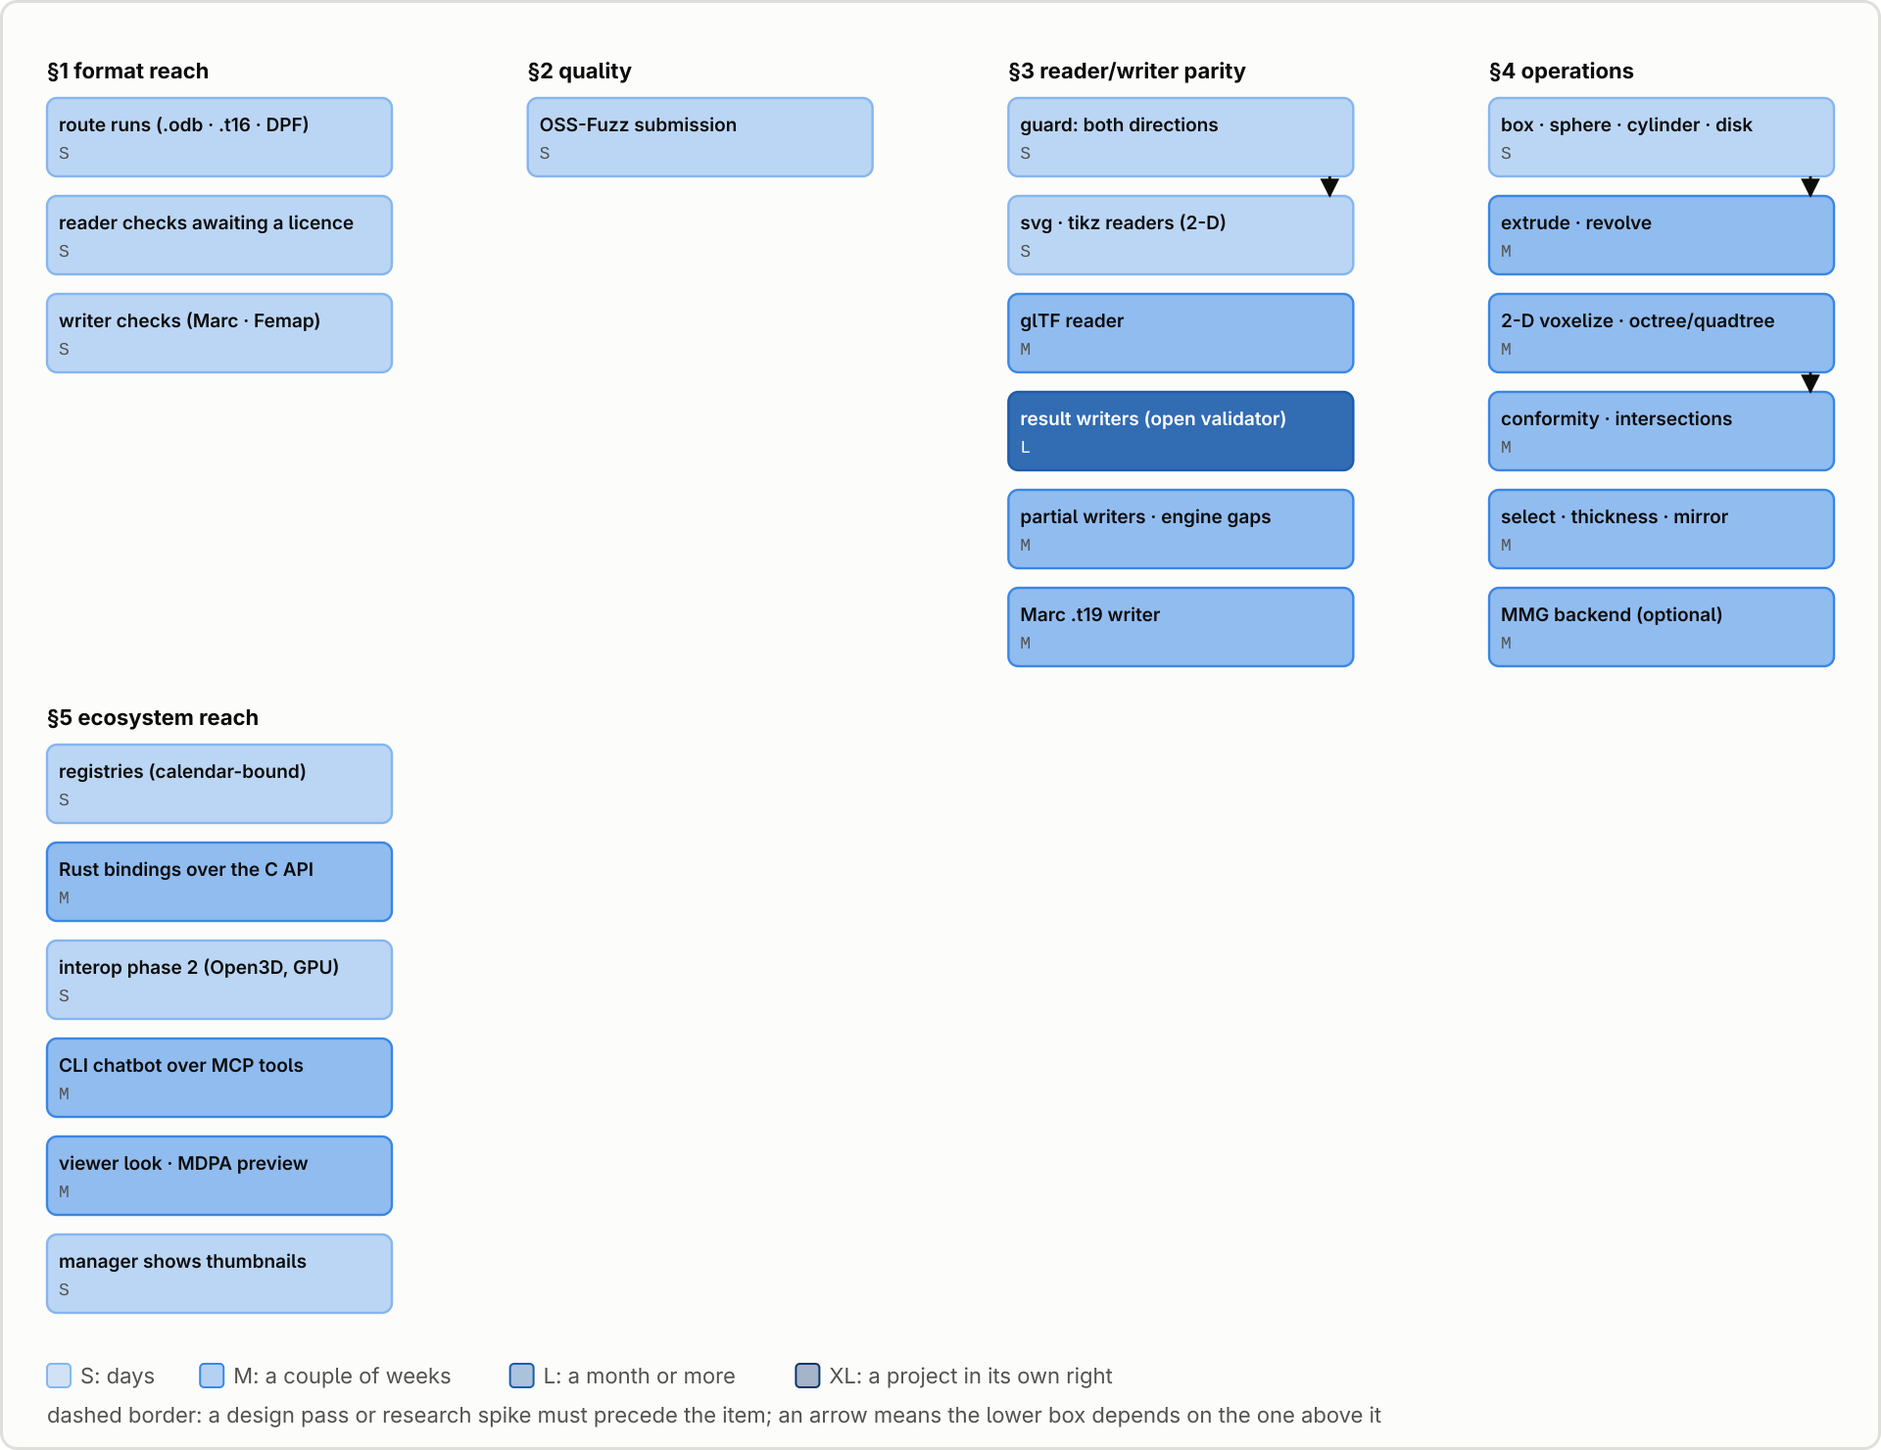
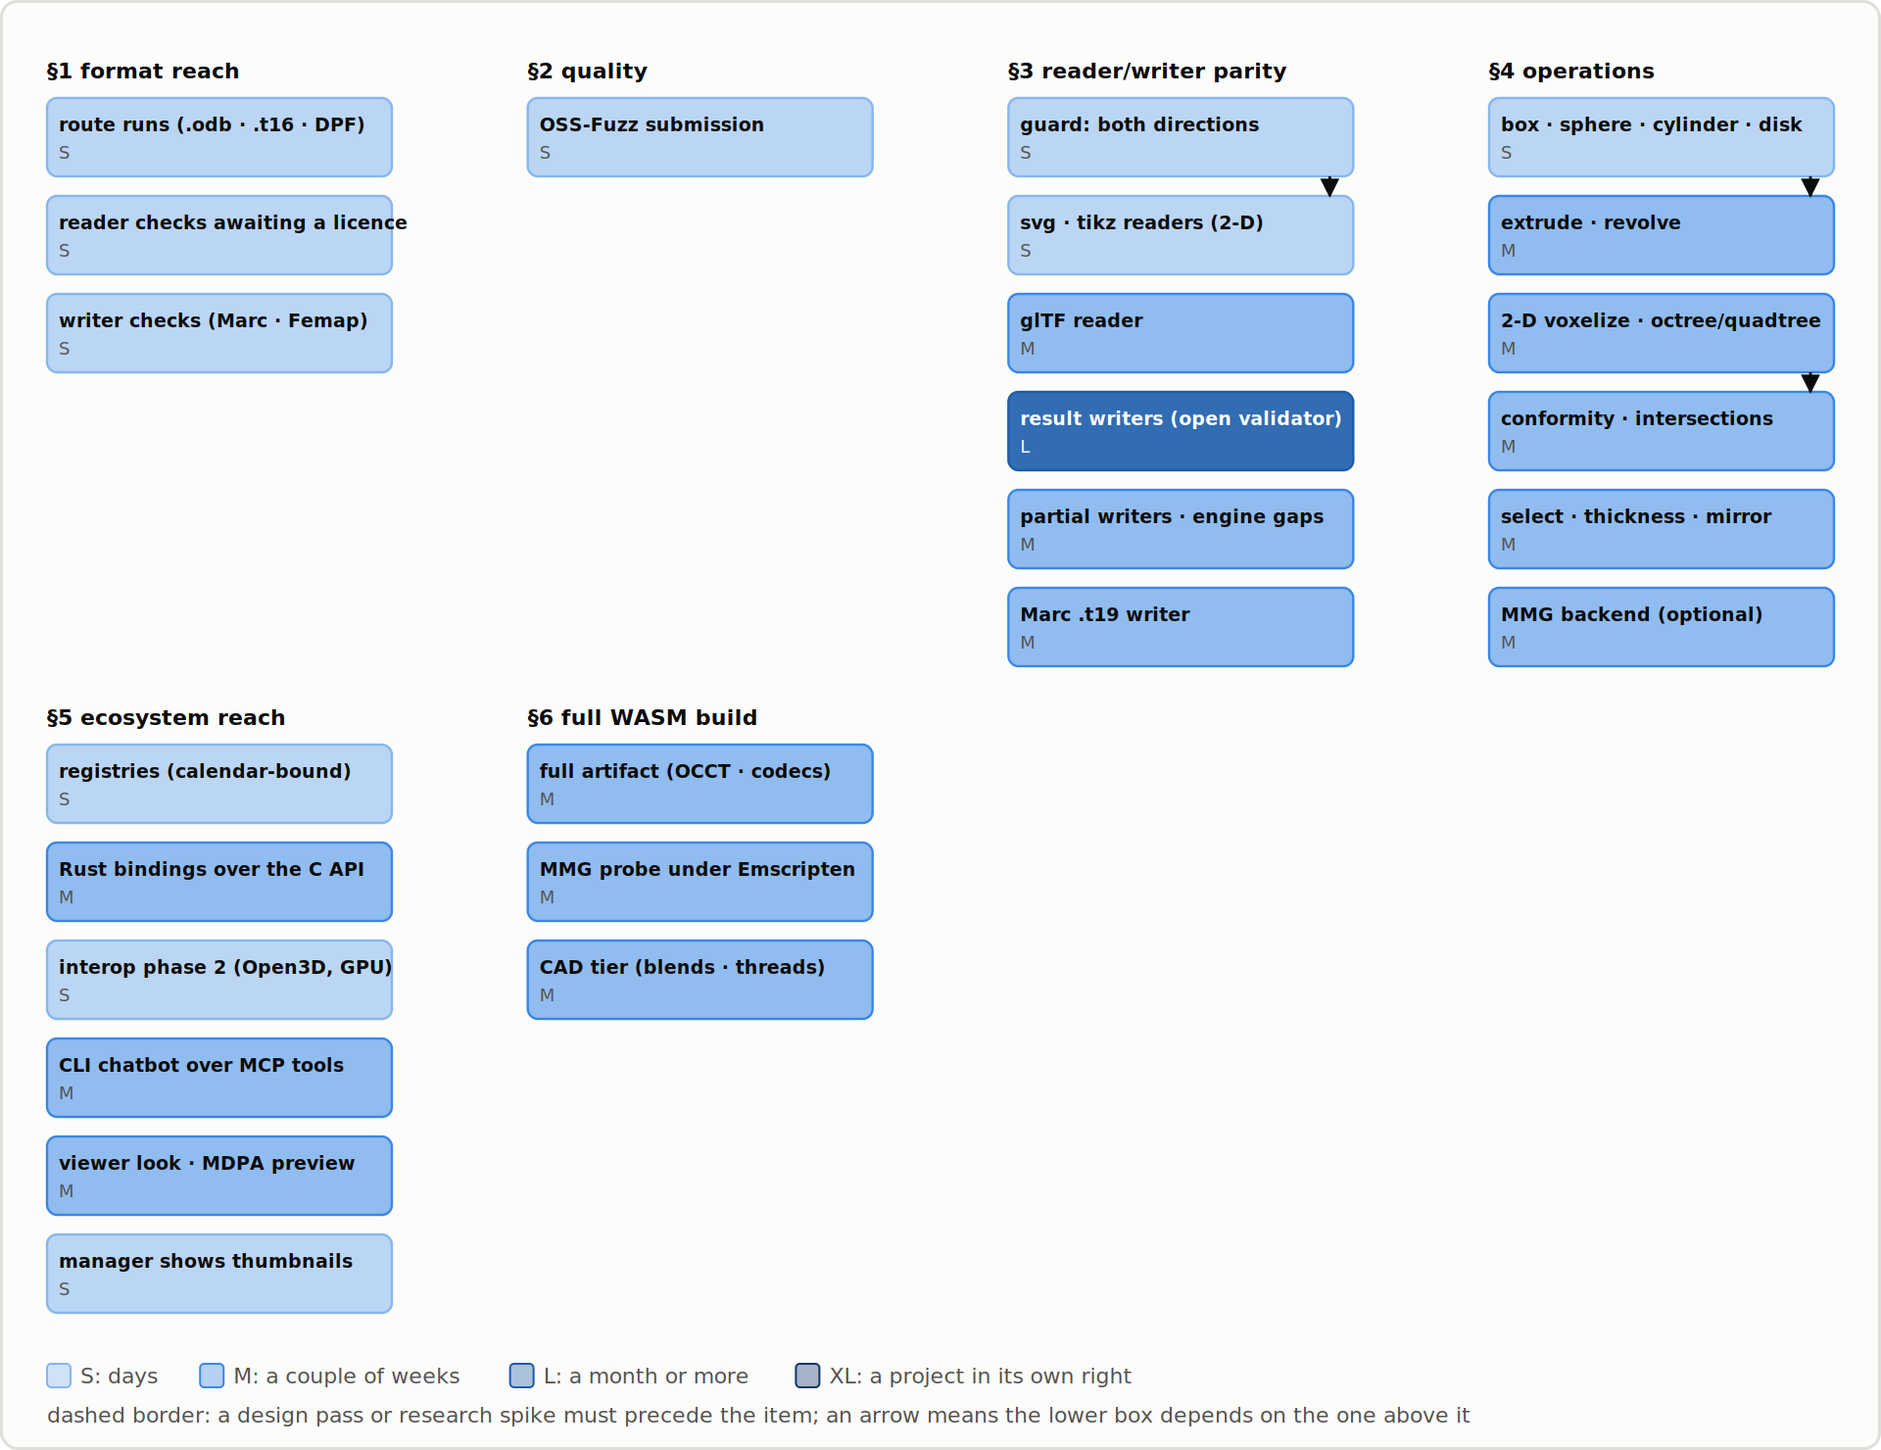
Add full WebAssembly build section to roadmap and update diagrams

diff --git a/doc/diagrams/figures/flows.py b/doc/diagrams/figures/flows.py
@@ -1064,6 +1064,15 @@ def roadmap_map():
             ],
             [],
         ),
+        (
+            "§6 full WASM build",
+            [
+                ("full artifact (OCCT · codecs)", "M"),
+                ("MMG probe under Emscripten", "M"),
+                ("CAD tier (blends · threads)", "M"),
+            ],
+            [],
+        ),
     ]
     per_row = 4
     col_w = 176

diff --git a/doc/roadmap.md b/doc/roadmap.md
@@ -99,7 +99,7 @@ What changed since parity last had a section. The reader/writer triage of Septem
 - **Both directions, both engines.** A format reads and writes in the C++ core and in its Python twin, so it reaches every surface: C, Fortran, Julia, R, WASM, both CLIs and the MCP server's format capabilities.
 - **What one side keeps, the other keeps.** `read(write(m))` equals `m` within the limits the format itself imposes (single precision, a cell type it has no slot for, a concept it cannot express). A loss that is a fact of the format is stated on its page and in the [conformance](./conformance.md) notes; a loss that is only an unwritten feature is a gap, and belongs below.
 - **The one exception: pure 2-D drawings.** `svg` and `tikz` draw a mesh rather than store it. Their readers parse only the structure meshio++'s own writers emit, return the geometry as planar (`z = 0`), and warn once per read that depth, and whatever else the drawing could not hold, is lost. Anything else in the file — another tool's drawing, or a hand edit — is a `ReadError` naming the construct, never a guess.
-- **Exempt:** `ansys_rst_cyclic`, which is not a file but the full rotor a cyclic `.rst` expands to; its write side is `ansys_rst`'s cyclic option (3.2.5). And `step` and `iges` outside a build with the optional OpenCASCADE backend: reading a CAD model means a CAD kernel, which stays bring-your-own ([skin to CAD](./cad_fit.md), [STEP](./formats/step.md#reading)).
+- **Exempt:** `ansys_rst_cyclic`, which is not a file but the full rotor a cyclic `.rst` expands to; its write side is `ansys_rst`'s cyclic option (3.2.5). And `step` and `iges` outside a build with the optional OpenCASCADE backend: reading a CAD model means a CAD kernel, which stays bring-your-own natively ([skin to CAD](./cad_fit.md), [STEP](./formats/step.md#reading)); on WASM the lean build is the exempt one, and [§6](#_6-the-full-webassembly-build) queues the full build that carries the kernel.
 
 **Landing an item.** Each item names only what is particular to it. All of them:
 
@@ -254,22 +254,41 @@ What changed since parity last had a section. The reader/writer triage of Septem
 
 ---
 
+## 6. The full WebAssembly build
+
+*Admission: work that gives the browser surface the optional libraries it cannot link today, and the CAD work those libraries unlock. The lean build stays the default: small, MIT and dependency-light, for every consumer that does not need a CAD kernel.*
+
+The npm package ships one build today, in two parallel flavours — `meshioplusplus_wasm` (sequential) and `meshioplusplus_wasm_mt` (threaded) — with every library that already has an Emscripten port compiled in (zlib, HDF5, netCDF, cgnslib, the vendored gidpost) and everything else compiled out with its reason in the [non-goals](#non-goals-and-decisions-taken). The split: a **lean** build, exactly what ships today, and a **full** build that turns on every library the Emscripten toolchain can cross-compile, even where that changes the artifact's licence.
+
+- **6.1 The lean build stays the default.** Nothing about it changes: small, MIT, the build every current consumer loads. What it compiles out keeps reporting by name, as `hasCgnslib()` and the flag-naming errors do today. **S**
+- **6.2 The full build.** A sibling artifact linking everything portable, stating the licence consequences of doing so. Its JS API is identical to the lean one; `availableFormats()` reports the larger set and a `hasOcct()` reports the kernel beside `hasCgnslib()`. The package keeps one name and one loader: the full artifacts ship beside the lean ones (`meshioplusplus_wasm_full`, plus its threaded flavour) and `loadMeshioPlusPlus` lazy-imports them only when asked, so a lean consumer never fetches the bytes. **M for the wiring, L with the OCCT port**
+  - **6.2.1 OpenCASCADE.** Reading STEP or IGES and writing fitted analytic faces mean a CAD kernel, so the full build is where [§3](#_3-reader-and-writer-parity)'s bring-your-own exemption ends on this surface. **Verify first:** no Emscripten port of a current OCCT release exists (opencascade.js tracks an old one), so the first probe is a wasm32 configure of OCCT 7.6 — the floor the native backend already sets — under `build/build-wasm-deps.sh`'s pinned-source pattern, statically linked, with the artifact's size measured and recorded before anything else is promised. If it configures: STEP and IGES read in the browser, [`fit_cad`](./fit_cad.md) gains the one surface that lacked it, and the `brep` and [CAD JSON](./formats/cad_json.md) side channels reach JS. OCCT is LGPL-2.1 with the OCCT exception, so the full artifact is **not** plain MIT: the npm page, the package README and [WASM](./wasm.md) state the mixed licence, as [STEP](./formats/step.md) states the kernel's implications natively. **L**
+  - **6.2.2 The codecs.** zstd, lz4 and bzip2 (the native `MESHIOPLUSPLUS_WITH_BZIP2`) are pure C, and the non-goal's "no Emscripten port" claims rather than measures impossibility. **Verify first:** a wasm32 build of each, with the cost weighed against an optional VTK block codec. If they build, the full artifact gains zstd/lz4 compression and bzip2 libMesh reads. Probe: a zstd-compressed `vtu` the full artifact writes reads back in the same artifact and in vtk.js. **S–M**
+  - **6.2.3 MMG.** The old non-goal recorded LGPL-3.0 and "never probed under Emscripten"; the full build is where that probe happens. **Verify first:** MMG is C with POSIX expectations (its signal handlers, no MPI path needed), so a wasm32 configure of 5.8 follows the same deps-script pattern; if it links, `adapt`, `discretize_levelset`, `mesh_domain` and `move` (4.3.1–4.3.4) reach the browser and the licence statement of 6.2.1 covers an LGPL component. Its operations throw by name where it is absent, as everywhere else. **M**
+  - **6.2.4 What stays out, each with its reason.** KaHIP (no Emscripten port, and a partitioner would bloat every consumer's bundle), ADIOS2 (`vtx`, a wasm build of it no one has made), TecIO (`szplt`, redistribution terms), the Kokkos backend (CMake refuses it under Emscripten) and memory mapping (nothing to map inside MEMFS). Each stays compiled out and reports by name; the non-goal block keeps the line for each. Probe: `availableFormats()` and the capability reporters name exactly this set on both artifacts. **S**
+  - **6.2.5 Surfaces and probes.** `build/configure-wasm.sh` gains a `--full` pass beside the seq/mt pair (artifacts `meshioplusplus_wasm_full` and its threaded flavour), `build/build-wasm-deps.sh` the OCCT, codec and MMG source builds with pins, the package `files` list and the loader (a full flavour of the same `auto`/`mt`/`seq` choice), `tests/wasm/smoke.mjs` a `MESHIOPLUSPLUS_WASM_VARIANT=full` leg, and `.github/workflows/wasm.yml` builds and smoke-tests it. Probe: the full artifact passes the whole smoke suite; a STEP file reads as its triangulation plus `mesh.info.brep`; `fit_cad` writes a solid from a segmented skin; a zstd `vtu` round-trips — each in the browser and in Node. **M**
+- **6.3 The CAD tier.** The recognisers the non-goal block deferred, moved here: each is worth its weight when a consumer needs the feature as an editable face rather than a freeform one, and the full build is that consumer. [`fit_cad`](./fit_cad.md) recognises planes, spheres, cylinders, cones and tori, rolling-ball fillets and blends of constant or varying radius between two fitted faces (analytic or freeform), and helical thread faces of any profile, with or without a neighbouring axis; everything else comes back as a freeform B-spline face or facets, checked against the skin either way. Each item below extends `detail/feature_fit`'s rolling-ball and screw fits, which the first two already share, and each keeps its reopen probe. **S–M each**
+  - **6.3.1 Vertex blends where three or more blends meet (setbacks).** A recogniser of its own with no consumer asking until the full build; reopen when a scanned part needs a setback corner as an editable face rather than a freeform one. Probe: a scanned part with a setback corner. **S–M**
+  - **6.3.2 Chamfers and blends of a non-circular section.** A recogniser of its own with no consumer asking until the full build; reopen when a scanned part needs a chamfer or a non-circular-section blend as an editable face rather than a freeform one. Probe: a chamfered edge and a blended edge whose section is not a circle. **S–M**
+  - **6.3.3 Tapered and variable-pitch threads (no screw leaves them unchanged).** A recogniser of its own with no consumer asking until the full build; reopen when a scanned part needs a tapered or variable-pitch thread as an editable face rather than a freeform one. Probe: a thread whose pitch or depth varies along its axis. **S–M**
+
+---
+
 ## Non-goals and decisions taken
 
 Recorded so they are not re-proposed as gaps.
 
 - **MPI in the library** — none planned ([C++ API](./cpp_api.md)); `partition`'s ghost layers produce the halo an MPI assembly in the owning application needs. ParMmg, MMG's MPI layer, is excluded with it.
 - **Solver-coupled physics-ML** — assembled solver residuals, adjoints and Sobolev training, co-simulation, active-learning *labeling*, adaptive remeshing driven by a surrogate, and MPI model-part gathering. Every one needs a live solver (an assembly routine, its tangent, its communicator) and meshio++ has no notion of a discrete system; they belong in the application that owns the solver, the division [Symbolic and physics](physicsnemo/symbolic_and_physics.md) describes.
-- **The Python-only layers stay Python** — `pmsh`, `zarr`, `cae` and `usd`, and the physics-ML surface (grids, point budgets, proximity graphs, datasets, training) are export targets and tooling for a training pipeline, registered in Python rather than the shared C++ registry. A core kernel they call (the neighbour search) does not change that; `tessellate` moved to the core (6.2.3) because the native CLI and the flat bindings needed it, and its `Tessellation` helpers stay Python.
+- **The Python-only layers stay Python** — `pmsh`, `zarr`, `cae` and `usd`, and the physics-ML surface (grids, point budgets, proximity graphs, datasets, training) are export targets and tooling for a training pipeline, registered in Python rather than the shared C++ registry. A core kernel they call (the neighbour search) does not change that; `tessellate` moved to the core ([tessellation](./tessellation.md)) because the native CLI and the flat bindings needed it, and its `Tessellation` helpers stay Python.
 - **Polyscope in the release CLI binaries** — excluded deliberately, so `view`/`screenshot` there report the build flag rather than opening a window ([viewer](./viewer.md)).
 - **General meshing algorithms as operations** — Delaunay and constrained triangulation or tetrahedralization of a domain, hex and hex-dominant meshing from a CAD-like boundary, boolean/CSG, boundary-layer inflation, quadrangulation and geodesic distance are each a library in their own right, and the triangulators need robust geometric predicates, which is where dependency-free stops paying (the reason the queued Delaunay item was dropped). The answer is an optional backend (the KaHIP pattern), not a native implementation: domain meshing and adaptation reach meshio++ only through the MMG backend (§4.3). Lattice generation is the exception, and in scope: [`voxelize`](./voxelize.md), the octree of §4.1.4 and [`remesh_volume`](./remesh_volume.md)'s isosurface stuffing are index arithmetic over a signed distance, with no predicate to make robust.
 - **Contact mechanics itself** — penalty or mortar assembly, friction and contact search in time need a live solver. meshio++ detects and exports the interface of one snapshot ([§4](#_4-operations)); the contact algorithm belongs in the application that owns the solver.
-- **MMG in the WASM build, the release wheels and the native CLI binaries** — it is LGPL-3.0 and an external install, so it is linked dynamically into builds that opt in and nowhere else; the operations throw by name where it is absent.
-- **KaHIP in the WASM build** — no Emscripten port, and a graph partitioner would bloat every consumer's bundle; `"auto"` resolving to the SFC method is the answer, and `"kahip"` throwing by name is the contract.
-- **zstd/lz4 codecs, memory mapping and the Kokkos backend under Emscripten** — the codecs have no Emscripten port and are compiled out, CMake refuses the Kokkos backend under Emscripten, and there is nothing to map inside MEMFS.
+- **MMG in the release wheels and the native CLI binaries** — it is LGPL-3.0 and an external install, so it is linked dynamically into builds that opt in and nowhere else; the operations throw by name where it is absent. The WASM half of the old decision is [§6.2.3](#_6-the-full-webassembly-build)'s probe, not this non-goal.
+- **KaHIP in the WASM build** — no Emscripten port, and a graph partitioner would bloat every consumer's bundle; `"auto"` resolving to the SFC method is the answer, and `"kahip"` throwing by name is the contract. It stays out of the full build too ([§6.2.4](#_6-the-full-webassembly-build)).
+- **zstd/lz4 codecs under Emscripten** — the codecs have no Emscripten port and are compiled out of the lean build; whether they cross-compile is [§6.2.2](#_6-the-full-webassembly-build)'s probe. **Memory mapping and the Kokkos backend under Emscripten** — CMake refuses the Kokkos backend under Emscripten, and there is nothing to map inside MEMFS.
 - **Single-file output for DOLFIN, TetGen and EnSight from WASM**, or lifting DOLFIN's simplicial restriction — both are facts of the formats; `writeMesh`'s written-paths return value (v11.2.0) is the fix for the bookkeeping they cause.
 - **NURBS patches and trims as a second entity kind inside `Mesh`** — decided with the [isogeometric layer](./iga.md) (v16.43.0, [findings](./spikes.md#the-isogeometric-layer)): a model (`NurbsInfo`, `BrepInfo`) stays a side channel beside the mesh, with its own evaluate, refine and sample operations, because a first-class entity kind needs patches, control nets, weights, knots and trimming curves in `Mesh`, every mesh backend (MESHIO, NATIVE, KRATOS), every binding and the C++ ABI: a major version for a gain the three operations already give. Reopen it when an operation must act on patches and trims as mesh entities (mixed IGA and FEM assembly in one model, for instance, or a patch-aware `partition`), and start from the spike's list of what the side channel cannot do: no `Mesh` operation sees a patch, the model does not travel through the pipeline, and an MFEM model refines every direction alike.
-- **Skin-to-CAD features beyond rolling-ball blends and helical surfaces** — [`fit_cad`](./fit_cad.md) recognises planes, spheres, cylinders, cones and tori, rolling-ball fillets and blends of constant or varying radius between two fitted faces (analytic or freeform), and helical thread faces of any profile, with or without a neighbouring axis; everything else comes back as a freeform B-spline face or facets, checked against the skin either way. Vertex blends where three or more blends meet (setbacks), chamfers and blends of a non-circular section, and tapered or variable-pitch threads (no screw leaves them unchanged) are each a recogniser of their own with no consumer asking. Reopen one when a scanned part needs that feature as an editable face rather than a freeform one, starting from `detail/feature_fit`'s rolling-ball and screw fits, which the first two would extend.
 - **Polyhedron blocks as a WASM gap** — `vtu`, `ensight`, `cgns`, `med` and `openfoam` all write them from WASM; a consumer that cannot is constrained by its own data model.
 - **Performance work measured or decided against** — recorded when the roadmap's performance section closed (October 2026); a new performance change passes the gates of [landing a performance change](./benchmarks.md#landing-a-performance-change):
   - **The serial phases kept for determinism**: the keep-first weld loop (chains make it order-dependent), the union sweeps of `split` and `compute_normals` (cheap, and their partitions are order-independent anyway), and `remesh`'s energy sweep (every accepted move changes what the next test reads; it has no numpy twin because a near-tie decided differently yields a different clustering).
@@ -296,3 +315,4 @@ Open work only; what shipped is in `CHANGELOG.md`.
 5. **Voxel and octree meshes ([§4](#_4-operations))** — the 2-D `voxelize`, then the octree with hanging nodes and its quadtree, then the polyhedral transitions; the transition templates when a finite-element consumer asks.
 6. **The MMG backend ([§4](#_4-operations))** — Medit `.sol` first, since it needs no link and opens the file route; then `adapt`, `discretize_levelset`, `mesh_domain` and, with ELAS, `move`.
 7. **Registration ([§5](#_5-ecosystem-reach))** — calendar-bound, so start the submissions early and let them run alongside everything else; the viewer's look (5.5) and the dataset manager's thumbnails (5.6) need no decision first and can run beside them.
+8. **The full WebAssembly build ([§6](#_6-the-full-webassembly-build))** — the OCCT port probe first, since the full tier waits on it; the codec and MMG probes beside it; the packaging and loader once one of them lands; the CAD tier as recognisers are asked for.
